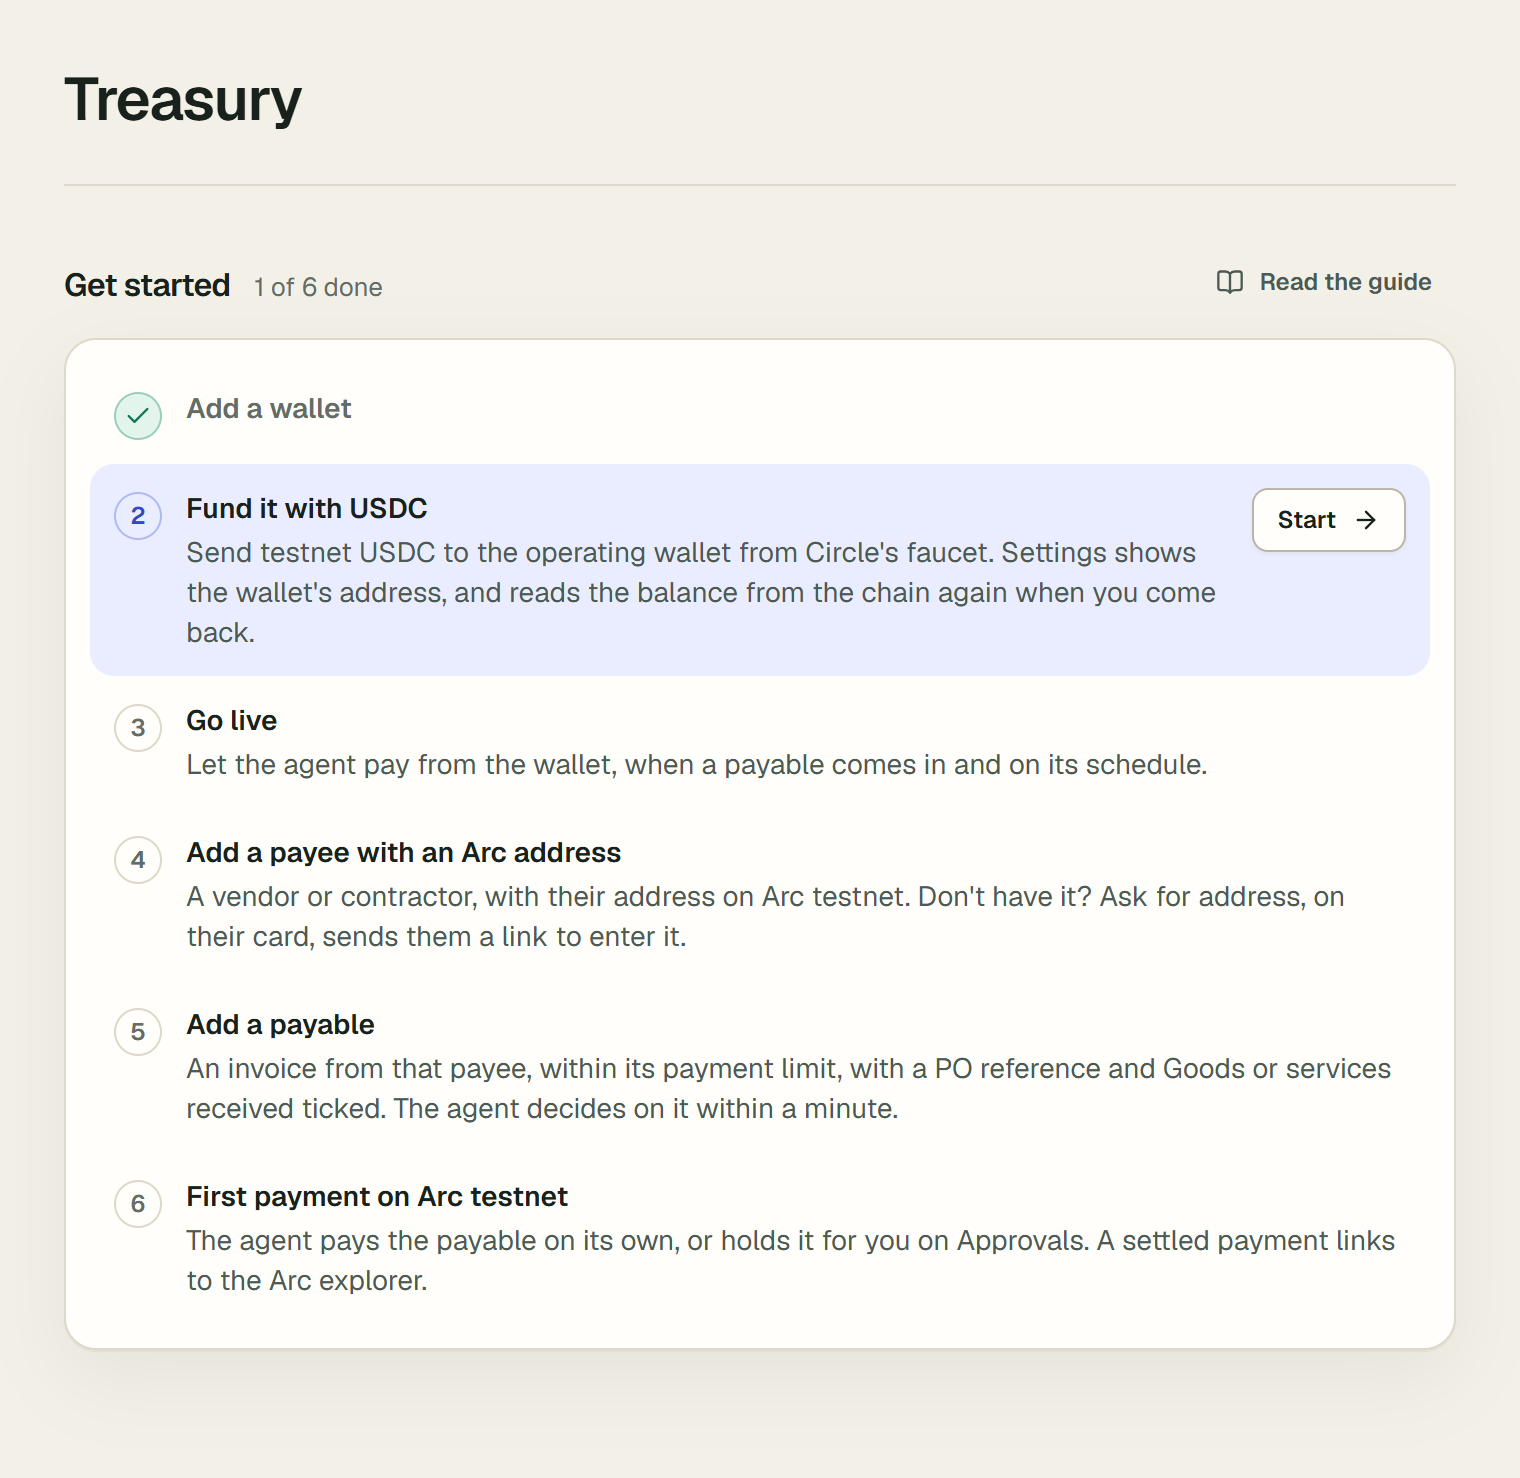
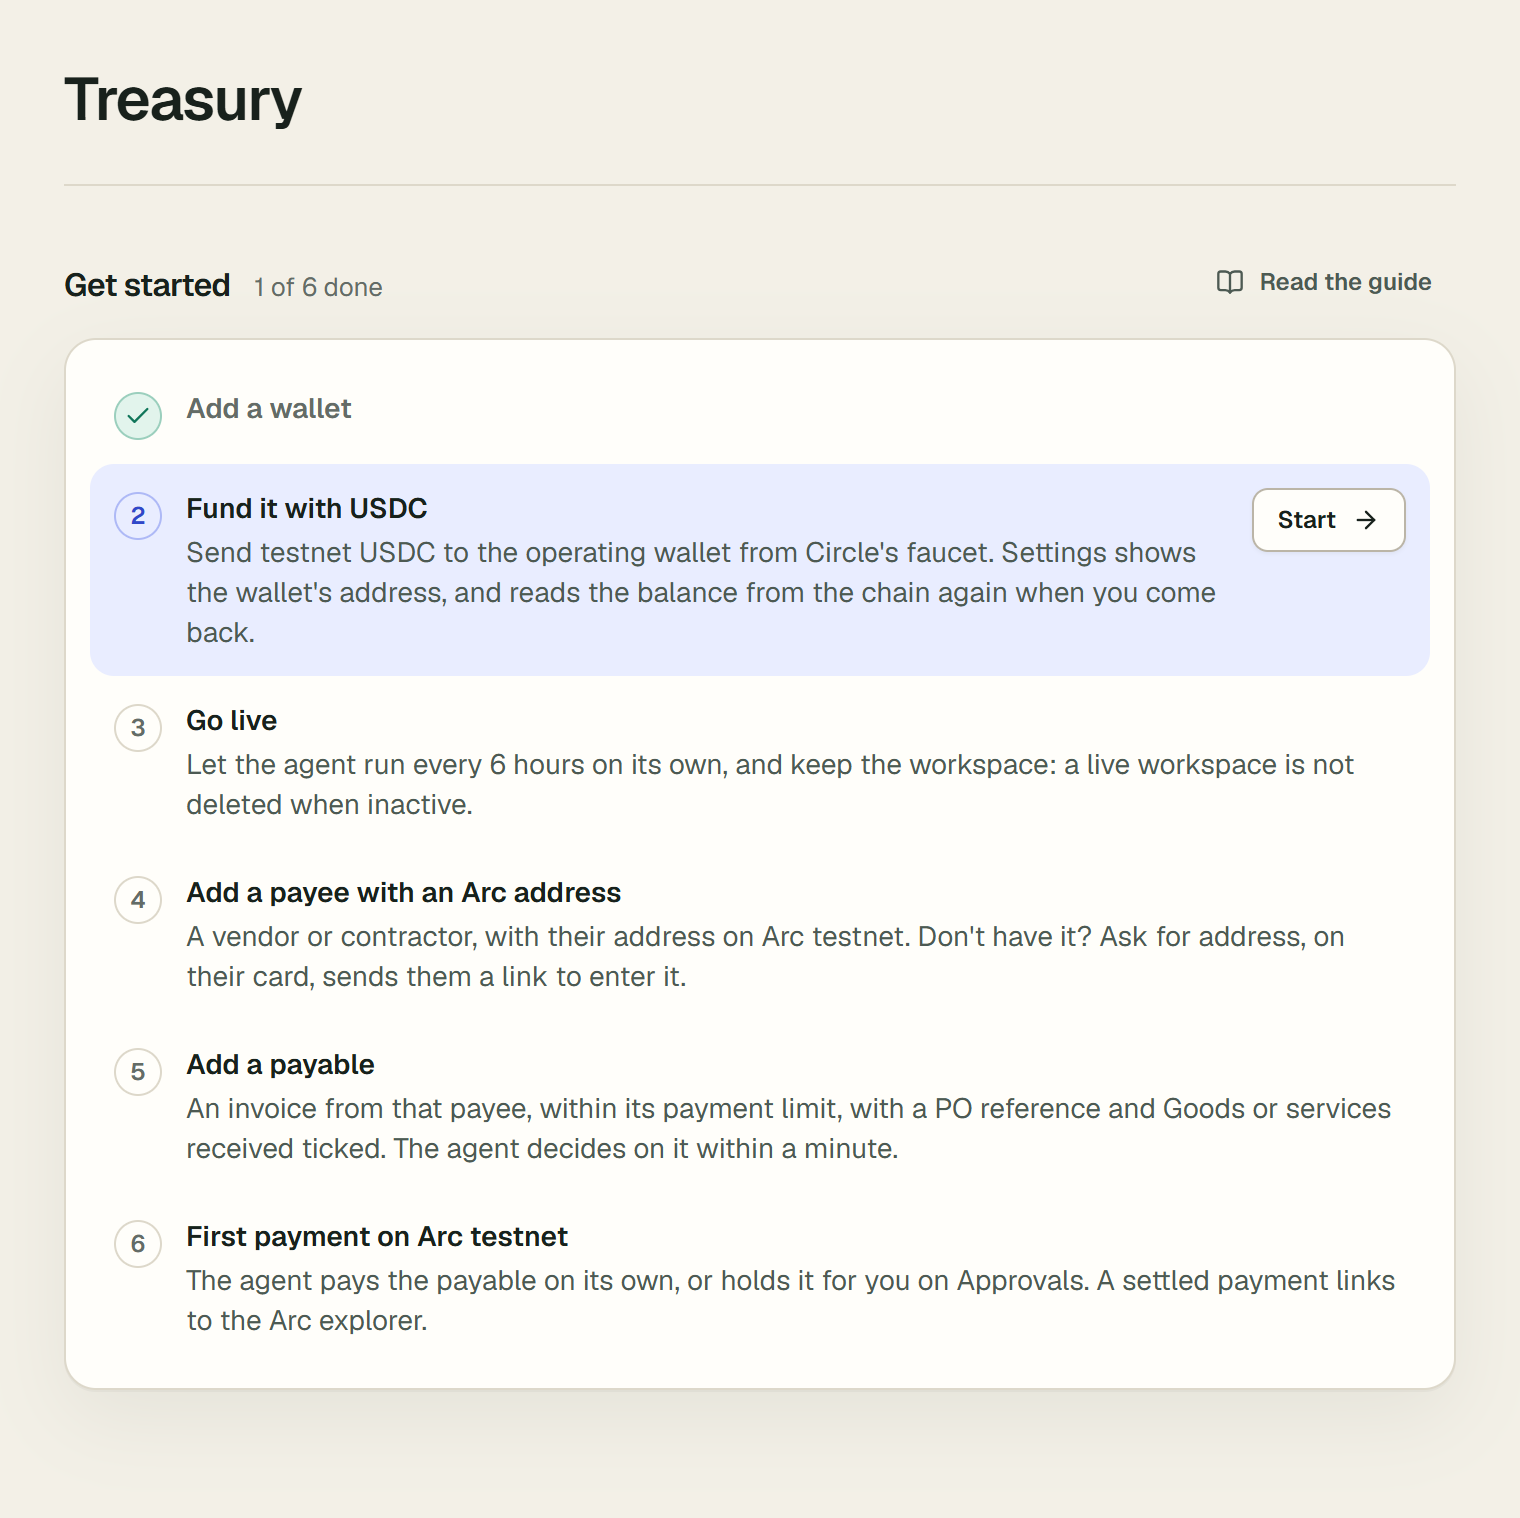
Keep the checklist honest after going live, and keep /open whole without 0042
Funding stays undone while the operating wallet holds no USDC, even when live.
Only open payables count towards the payable step, so a sandbox-paid or rejected
one no longer leaves the checklist waiting on nothing. The checklist hides only
once the workspace is live and has paid. When open_first_payments cannot be read,
/open shows dashes for those two rows and every other figure as before.

diff --git a/src/lib/getting-started.ts b/src/lib/getting-started.ts
@@ -5,11 +5,13 @@
  * rows the console already reads — the accounts, the counterparties, the
  * payables, the on-chain payments `stats()` counts, what waits for a person,
  * and the workspace's mode — so there is nothing to store and nothing to
- * dismiss: the checklist disappears at the first payment (G1).
+ * dismiss: the checklist disappears once the workspace is live and has made
+ * its first payment (G1).
  *
  * Funding reads the stored balance, never Circle (G2): the console makes no
- * Circle call for it. The step sends the person to Settings, where the Go live
- * panel reads the balance from the chain, and reads it again while it is 0.
+ * Circle call for it. Its balance tile reads the chain and stores the result,
+ * so the step ticks itself. It stays undone while the operating wallet holds
+ * no USDC, live or not: going live does not fund the wallet.
  *
  * Sample rows (sample-data design §1) never tick a step: they show the agent
  * working, not the workspace set up.
@@ -30,7 +32,7 @@ export interface GettingStartedInput {
     address_confirmed_at?: string | null;
     sample?: boolean;
   }>;
-  /** Payable invoices of counterparties a person added (`ownPayableCount`). */
+  /** Open payable invoices of counterparties a person added (`ownPayableCount`). */
   payableCount: number;
   /** Paid invoices and milestones with an on-chain transaction (`stats().onchainTransfers`). */
   onchainPayments: number;
@@ -50,7 +52,7 @@ export interface GettingStartedStep {
 }
 
 export interface GettingStarted {
-  /** False once the workspace has made its first payment on Arc testnet: the checklist is done and hides. */
+  /** False once the workspace is live and has made its first payment on Arc testnet: the checklist is done and hides. */
   show: boolean;
   steps: GettingStartedStep[];
   /** The first step not done, or null when every one is. */
@@ -66,7 +68,7 @@ export function gettingStarted(input: GettingStartedInput): GettingStarted {
   const live = input.mode === "live";
   const operating = input.accounts.find((account) => account.kind === "operating");
   const hasWallet = Boolean(operating?.circle_wallet_id);
-  const funded = live || (hasWallet && (operating?.balance ?? 0) > 0);
+  const funded = (live || hasWallet) && (operating?.balance ?? 0) > 0;
   const payees = input.counterparties.filter(
     (counterparty) => !counterparty.sample && counterparty.role !== "client" && Boolean(counterparty.address)
   );
@@ -87,7 +89,9 @@ export function gettingStarted(input: GettingStartedInput): GettingStarted {
     {
       id: "fund",
       title: "Fund it with USDC",
-      body: "Send testnet USDC to the operating wallet from Circle's faucet. Settings shows the wallet's address, and reads the balance from the chain again when you come back.",
+      body: live
+        ? "The operating wallet holds no USDC, so the agent cannot pay. Send testnet USDC to it from Circle's faucet: Settings lists its address."
+        : "Send testnet USDC to the operating wallet from Circle's faucet. Settings shows the wallet's address, and reads the balance from the chain again when you come back.",
       path: GO_LIVE,
       done: funded,
       ownerOnly: false,
@@ -95,7 +99,7 @@ export function gettingStarted(input: GettingStartedInput): GettingStarted {
     {
       id: "live",
       title: "Go live",
-      body: "Let the agent pay from the wallet, when a payable comes in and on its schedule.",
+      body: "Let the agent run every 6 hours on its own, and keep the workspace: a live workspace is not deleted when inactive.",
       path: GO_LIVE,
       done: live,
       ownerOnly: true,
@@ -132,22 +136,27 @@ export function gettingStarted(input: GettingStartedInput): GettingStarted {
 
   const next = steps.find((step) => !step.done)?.id ?? null;
   return {
-    show: !paid,
+    show: !(paid && live),
     steps,
     next,
     guide: steps.some((step) => SETTINGS_STEPS.has(step.id) && !step.done) ? "go-live" : "first-payment",
   };
 }
 
+/** A payable in one of these can no longer become a payment: paid already (in a sandbox, if the checklist still shows), or rejected. */
+const CLOSED = new Set(["paid", "rejected"]);
+
 /**
- * The payables of counterparties a person added: receivables, and the
- * invoices of sample counterparties, do not count towards "Add a payable".
- * Computed from the rows the console already reads.
+ * The open payables of counterparties a person added: receivables, closed
+ * payables, and the invoices of sample counterparties do not count towards
+ * "Add a payable". Computed from the rows the console already reads.
  */
 export function ownPayableCount(
-  invoices: Array<{ counterparty_id: string; direction: string }>,
+  invoices: Array<{ counterparty_id: string; direction: string; status?: string }>,
   counterparties: Array<{ id: string; sample?: boolean }>
 ): number {
   const sample = new Set(counterparties.filter((counterparty) => counterparty.sample).map((counterparty) => counterparty.id));
-  return invoices.filter((invoice) => invoice.direction === "payable" && !sample.has(invoice.counterparty_id)).length;
+  return invoices.filter(
+    (invoice) => invoice.direction === "payable" && !CLOSED.has(invoice.status ?? "") && !sample.has(invoice.counterparty_id)
+  ).length;
 }

diff --git a/tests/getting-started.test.ts b/tests/getting-started.test.ts
@@ -76,8 +76,8 @@ describe("gettingStarted", () => {
     expect(done(result).fund).toBe(false);
   });
 
-  it("asks for the payee once the workspace is live", () => {
-    const result = gettingStarted(input({ mode: "live" }));
+  it("asks for the payee once the workspace is live and funded", () => {
+    const result = gettingStarted(input({ mode: "live", accounts: FUNDED }));
     expect(done(result)).toMatchObject({ wallet: true, fund: true, live: true, payee: false });
     expect(result.next).toBe("payee");
     expect(step(result, "payee").body).toContain("Ask for address");
@@ -94,7 +94,7 @@ describe("gettingStarted", () => {
 
   it("does not tick the payee step for an address still waiting for confirmation, and says whose to confirm", () => {
     const waiting = { ...PAYEE, address_changed_at: "2026-10-01T09:00:00Z", address_confirmed_at: null };
-    const result = gettingStarted(input({ mode: "live", counterparties: [waiting] }));
+    const result = gettingStarted(input({ mode: "live", accounts: FUNDED, counterparties: [waiting] }));
     expect(done(result).payee).toBe(false);
     expect(step(result, "payee").body).toContain("Confirm the new address of Northstar Studio");
 
@@ -103,14 +103,14 @@ describe("gettingStarted", () => {
   });
 
   it("ticks the payable step once a payable exists, and says what the agent needs to pay it", () => {
-    const result = gettingStarted(input({ mode: "live", counterparties: [PAYEE] }));
+    const result = gettingStarted(input({ mode: "live", accounts: FUNDED, counterparties: [PAYEE] }));
     expect(result.next).toBe("payable");
     expect(step(result, "payable").body).toContain("PO reference");
     expect(done(gettingStarted(input({ payableCount: 1 }))).payable).toBe(true);
   });
 
   it("waits for the first payment on AP / AR, or on Approvals while the agent holds something for a person", () => {
-    const ready = input({ mode: "live", counterparties: [PAYEE], payableCount: 1 });
+    const ready = input({ mode: "live", accounts: FUNDED, counterparties: [PAYEE], payableCount: 1 });
     const deciding = gettingStarted(ready);
     expect(deciding.next).toBe("payment");
     expect(step(deciding, "payment").path).toBe("/invoices");
@@ -149,7 +149,23 @@ describe("gettingStarted", () => {
 
   it("opens the Go live guide while a Settings step is left, and the first-payment guide after", () => {
     expect(gettingStarted(input({ accounts: FUNDED })).guide).toBe("go-live");
-    expect(gettingStarted(input({ mode: "live" })).guide).toBe("first-payment");
+    expect(gettingStarted(input({ mode: "live", accounts: FUNDED })).guide).toBe("first-payment");
+  });
+
+  it("asks for USDC again when a live workspace's operating wallet holds none, and opens the Go live guide", () => {
+    const result = gettingStarted(input({ mode: "live", accounts: [{ kind: "operating", circle_wallet_id: "w-1", balance: 0 }] }));
+    expect(done(result)).toMatchObject({ wallet: true, fund: false, live: true });
+    expect(result.next).toBe("fund");
+    expect(step(result, "fund").body).toContain("holds no USDC");
+    expect(result.guide).toBe("go-live");
+  });
+
+  it("stays in a sandbox that has paid on Arc testnet, until it goes live", () => {
+    const result = gettingStarted(input({ accounts: FUNDED, counterparties: [PAYEE], payableCount: 1, onchainPayments: 1 }));
+    expect(result.show).toBe(true);
+    expect(done(result).payment).toBe(true);
+    expect(result.next).toBe("live");
+    expect(step(result, "live").body).toContain("every 6 hours");
   });
 });
 
@@ -185,5 +201,17 @@ describe("sample rows (sample-data design §1)", () => {
     ).toBe(1);
     // A counterparty the page does not know (deleted meanwhile) is not a sample one.
     expect(ownPayableCount([{ counterparty_id: "gone", direction: "payable" }], counterparties)).toBe(1);
+  });
+
+  it("counts only payables that can still be paid: one paid in a sandbox, or rejected, cannot be the first payment", () => {
+    const counterparties = [{ id: "own", sample: false }];
+    const invoices = [
+      { counterparty_id: "own", direction: "payable", status: "paid" },
+      { counterparty_id: "own", direction: "payable", status: "rejected" },
+    ];
+    expect(ownPayableCount(invoices, counterparties)).toBe(0);
+    for (const status of ["pending", "held", "flagged", "awaiting_info", "processing"]) {
+      expect(ownPayableCount([...invoices, { counterparty_id: "own", direction: "payable", status }], counterparties)).toBe(1);
+    }
   });
 });

diff --git a/src/lib/platform/open-numbers.ts b/src/lib/platform/open-numbers.ts
@@ -33,11 +33,17 @@ const sideSchema = z.object({
   usdcInWallets: figure,
 });
 
-/** From open_first_payments (0042): the median is null when no workspace made a first payment in the period. */
+/**
+ * From open_first_payments (0042): the median is null when no workspace made a
+ * first payment in the period, and both are null when the function could not
+ * be read, so /open still shows every other figure.
+ */
 const firstSideSchema = z.object({
-  firstPayments: figure,
+  firstPayments: figure.nullable(),
   medianMinutesToFirstPayment: figure.nullable(),
 });
+
+const NO_FIRSTS = { firstPayments: null, medianMinutesToFirstPayment: null };
 
 const firstPaymentsSchema = z.object({
   sides: z.object({ customers: firstSideSchema, ours: firstSideSchema, total: firstSideSchema }),
@@ -140,9 +146,17 @@ function memoKey(period: Period): string {
 
 async function fetchOpenNumbers(period: Period): Promise<OpenNumbers> {
   const since = { p_since: period.since ? period.since.toISOString() : null };
-  const [numbers, firsts] = await Promise.all([platformDb().rpc("open_numbers", since), platformDb().rpc("open_first_payments", since)]);
+  const [numbers, first] = await Promise.all([
+    platformDb().rpc("open_numbers", since),
+    // Figures of their own: when they cannot be read (before migration 0042, say), the rest of /open still shows.
+    Promise.resolve(platformDb().rpc("open_first_payments", since))
+      .then((result) => firstPaymentsSchema.parse(unwrap(result)).sides)
+      .catch((error: unknown) => {
+        console.error("open numbers: open_first_payments not read", error instanceof Error ? error.message : error);
+        return { customers: NO_FIRSTS, ours: NO_FIRSTS, total: NO_FIRSTS };
+      }),
+  ]);
   const document = openNumbersSchema.parse(unwrap(numbers));
-  const first = firstPaymentsSchema.parse(unwrap(firsts)).sides;
   return {
     ...document,
     sides: {

diff --git a/tests/open-numbers.test.ts b/tests/open-numbers.test.ts
@@ -1,4 +1,4 @@
-import { describe, expect, it } from "vitest";
+import { describe, expect, it, vi } from "vitest";
 import { configFromEnv } from "@/lib/config";
 import { runWith } from "@/lib/context";
 import {
@@ -140,19 +140,22 @@ describe("readOpenNumbers", () => {
     expect(numbers.sides.total.firstPayments).toBe(2);
   });
 
-  it("fails the read when either function fails, and forgets it", async () => {
-    const period = since("2026-09-24");
-    const failing = platform(
-      () => readOpenNumbers(period, 1_000),
+  it("still reads every other figure when open_first_payments cannot be read, with no first-payment figures", async () => {
+    const logged = vi.spyOn(console, "error").mockImplementation(() => {});
+    const { result } = platform(
+      () => readOpenNumbers(since("2026-09-24"), 1_000),
       (request) =>
         request.path === "/rest/v1/rpc/open_first_payments"
           ? { status: 404, body: { message: "function open_first_payments does not exist" } }
           : { body: DOCUMENT }
     );
-    await expect(failing.result).rejects.toThrow(/open_first_payments/);
-    const retry = platform(() => readOpenNumbers(period, 2_000), reply);
-    await retry.result;
-    expect(retry.fake.requests).toHaveLength(2);
+    const numbers = await result;
+    expect(numbers.sides.ours.usdcPaid).toBe(3);
+    for (const side of [numbers.sides.customers, numbers.sides.ours, numbers.sides.total]) {
+      expect(side).toMatchObject({ firstPayments: null, medianMinutesToFirstPayment: null });
+    }
+    expect(logged).toHaveBeenCalledWith(expect.stringContaining("open_first_payments"), expect.anything());
+    logged.mockRestore();
   });
 
   it("sends a null start for all time", async () => {

diff --git a/tests/getting-started-ui.test.tsx b/tests/getting-started-ui.test.tsx
@@ -47,8 +47,8 @@ describe("GettingStarted", () => {
     expect(render()).toMatch(/<svg[^>]*lucide-book-open[^>]*>.*<\/svg>Read the guide/);
   });
 
-  it("links the next step's own page, and the first-payment guide, once the workspace is live", () => {
-    const markup = render({ mode: "live" });
+  it("links the next step's own page, and the first-payment guide, once the workspace is live and funded", () => {
+    const markup = render({ mode: "live", accounts: [{ kind: "operating", circle_wallet_id: "w-1", balance: 40 }] });
     expect(markup).toContain('href="/o/acme/counterparties"');
     expect(markup).not.toContain('href="/o/acme/settings#go-live-title"');
     expect(markup).toContain('href="/docs/guides/first-payment"');

diff --git a/docs/superpowers/specs/2026-10-01-first-payment-design.md b/docs/superpowers/specs/2026-10-01-first-payment-design.md
@@ -27,14 +27,14 @@ no stored state, no extra query, no Circle call on the console).
 | # | Step | Done when | Next-step guidance |
 |---|---|---|---|
 | 1 | Add a wallet | the operating account has a Circle wallet (or the workspace is live) | owner; Settings |
-| 2 | Fund it with USDC | the stored operating balance is above 0 (or live) | Settings shows the address and the faucet, and now reads the balance again by itself (R1) |
+| 2 | Fund it with USDC | the stored operating balance is above 0, live or not (R6) | Settings shows the address and the faucet, and now reads the balance again by itself (R1) |
 | 3 | Go live | the workspace is live | owner; Settings |
 | 4 | Add a payee with an Arc address | a vendor or contractor a person added, with an address that is not waiting for confirmation | points at **Ask for address**; when the only payee's address is unconfirmed, says to confirm it |
-| 5 | Add a payable | a payable invoice of a counterparty a person added | within the payee's limit, with a PO reference and goods received, or the agent asks for information |
+| 5 | Add a payable | an open payable (not paid, not rejected) of a counterparty a person added | within the payee's limit, with a PO reference and goods received, or the agent asks for information |
 | 6 | First payment on Arc testnet | the workspace has a paid invoice or milestone with an on-chain transaction (`stats().onchainTransfers`) | links to **Approvals** while the agent holds something for a person, otherwise to AP / AR |
 
-The checklist shows until step 6 is done, not merely until the workspace is live. A live workspace
-that has never paid anyone still needs the guide. **Read the guide** opens the Go live guide while a
+The checklist shows until the workspace is live and step 6 is done (R7), not merely until it is
+live. A live workspace that has never paid anyone still needs the guide. **Read the guide** opens the Go live guide while a
 Settings step is left, and the first-payment guide after that.
 
 ## 3. On `/open`
@@ -70,6 +70,17 @@ other's definition.
   explored a sandbox.
 - **R4: the payee step needs a confirmed address.** An address that is waiting for confirmation
   cannot be paid, so ticking the step for it would send the user to a payable the agent must hold.
+- **R6 (review I2): funding stays undone while the operating wallet holds no USDC, even when live.**
+  Going live does not check the balance, and the checklist now outlives going live, so ticking
+  funding for any live workspace would lead to payables the agent cannot pay. The stored balance is
+  current on the console (its balance tile reads the chain and stores it). Cost if wrong: a live
+  workspace briefly sees "Fund it" undone before the tile's first read lands.
+- **R7 (review minor 1, re-graded): the checklist hides only when the workspace is live and has
+  paid.** A sandbox with Circle connected can already pay on chain; hiding then would drop the guide
+  to going live, and a sandbox is deleted when inactive. Cost if wrong: none found.
+- **R8 (review I3): the first-payment figures fail on their own.** When `open_first_payments` cannot
+  be read, the two rows show a dash and every other figure still shows, so a deploy that lands
+  before migration 0042 cannot blank `/open`. Cost if wrong: two dashes until the migration runs.
 - **R5: "first payment" is an on-chain transfer the console already counts.** `stats()` counts paid
   invoices and milestones whose transaction is not a simulated one. Reusing it keeps G1's "no extra
   query". Cost if wrong: none found; a simulated payment never has an on-chain transaction.
